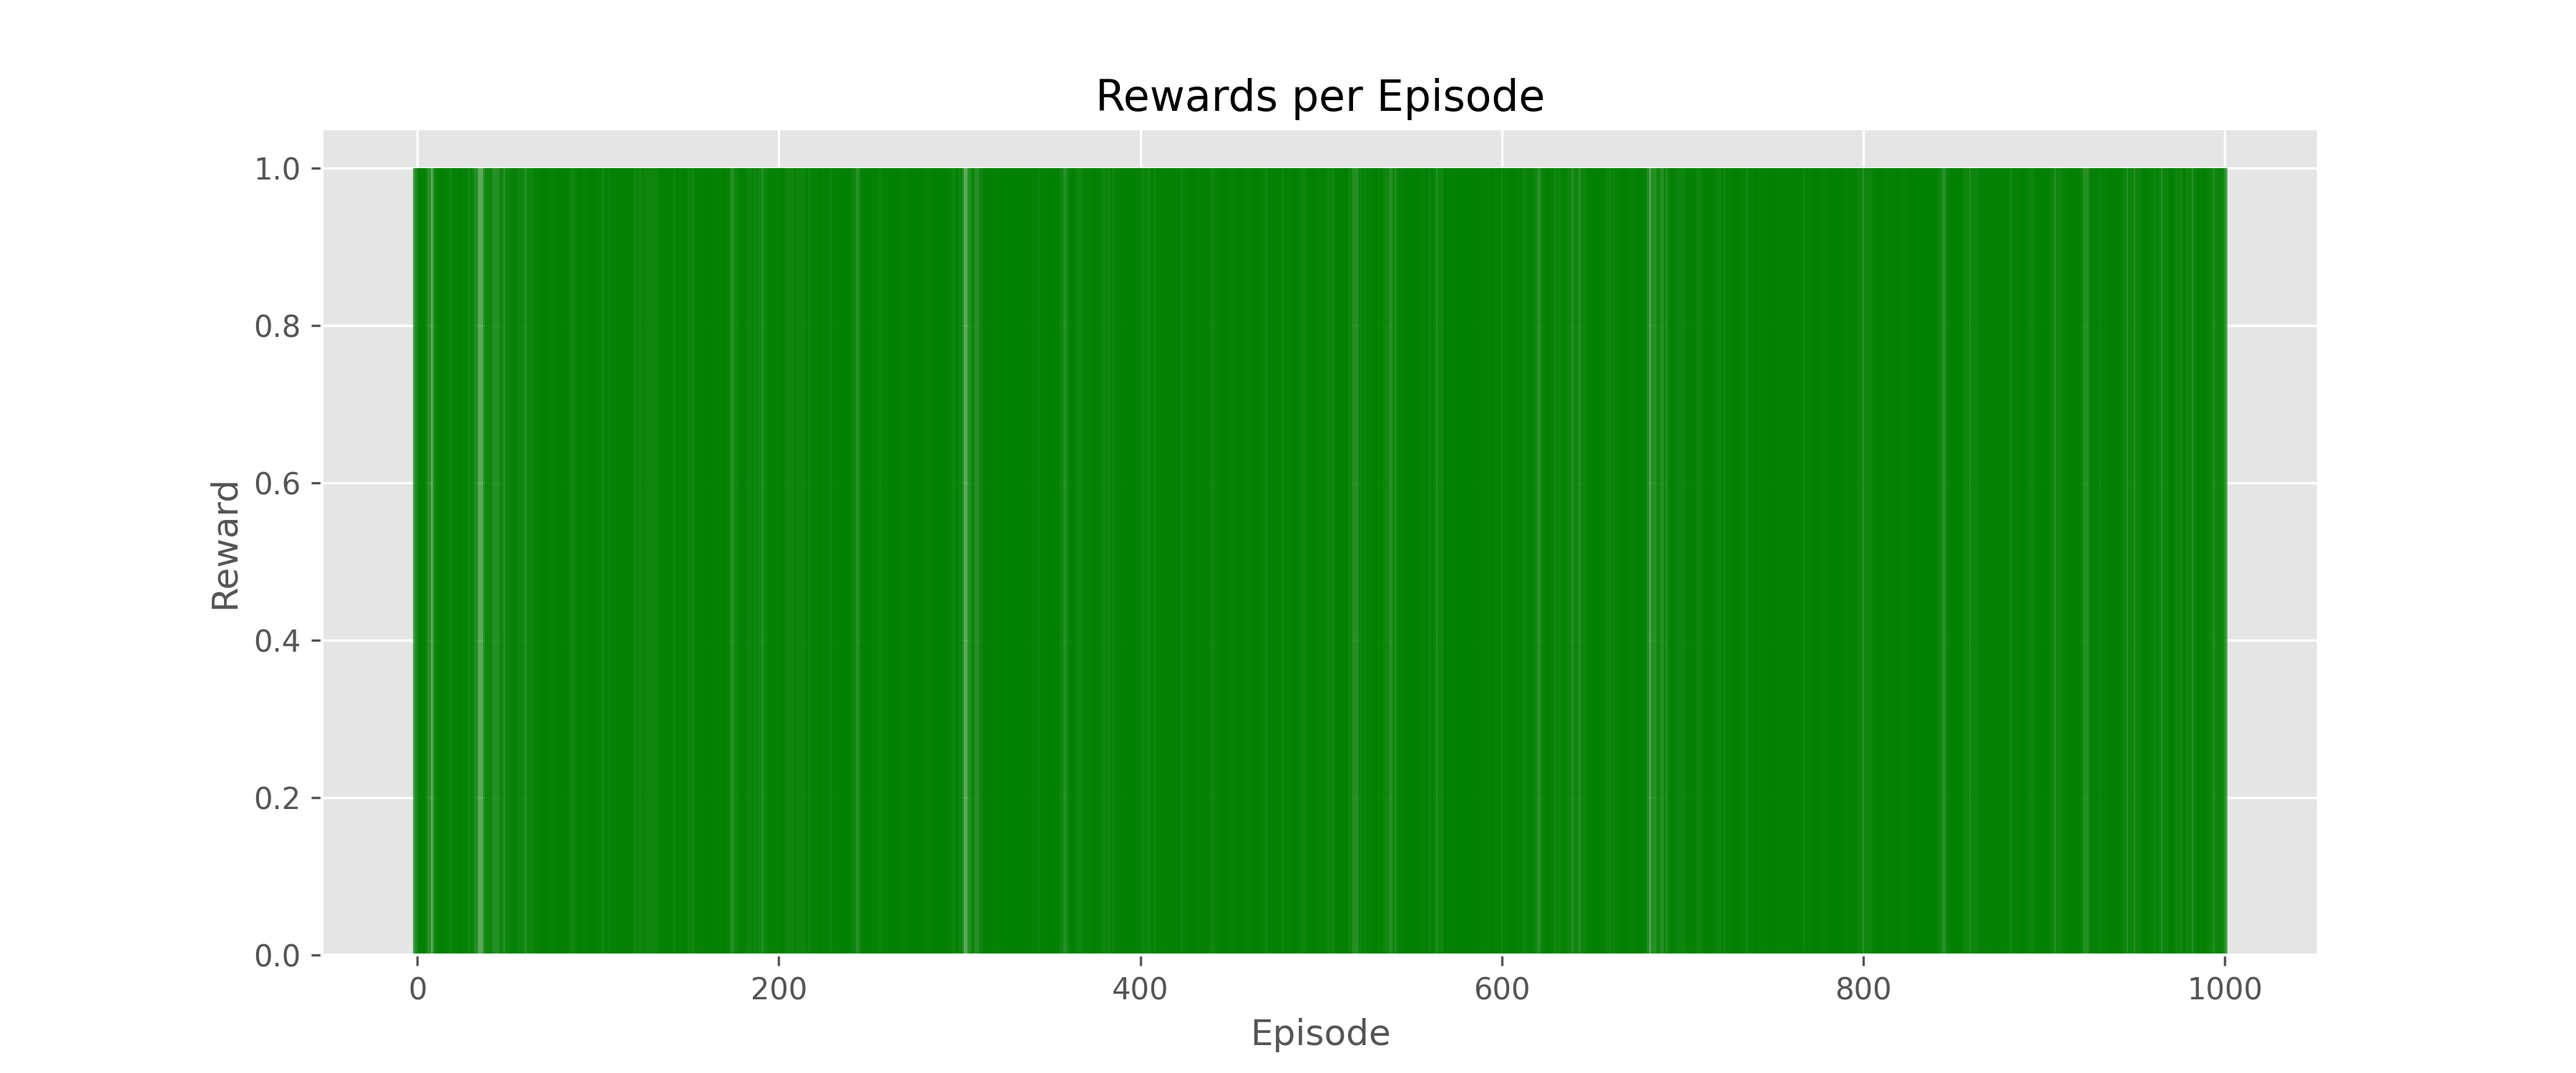
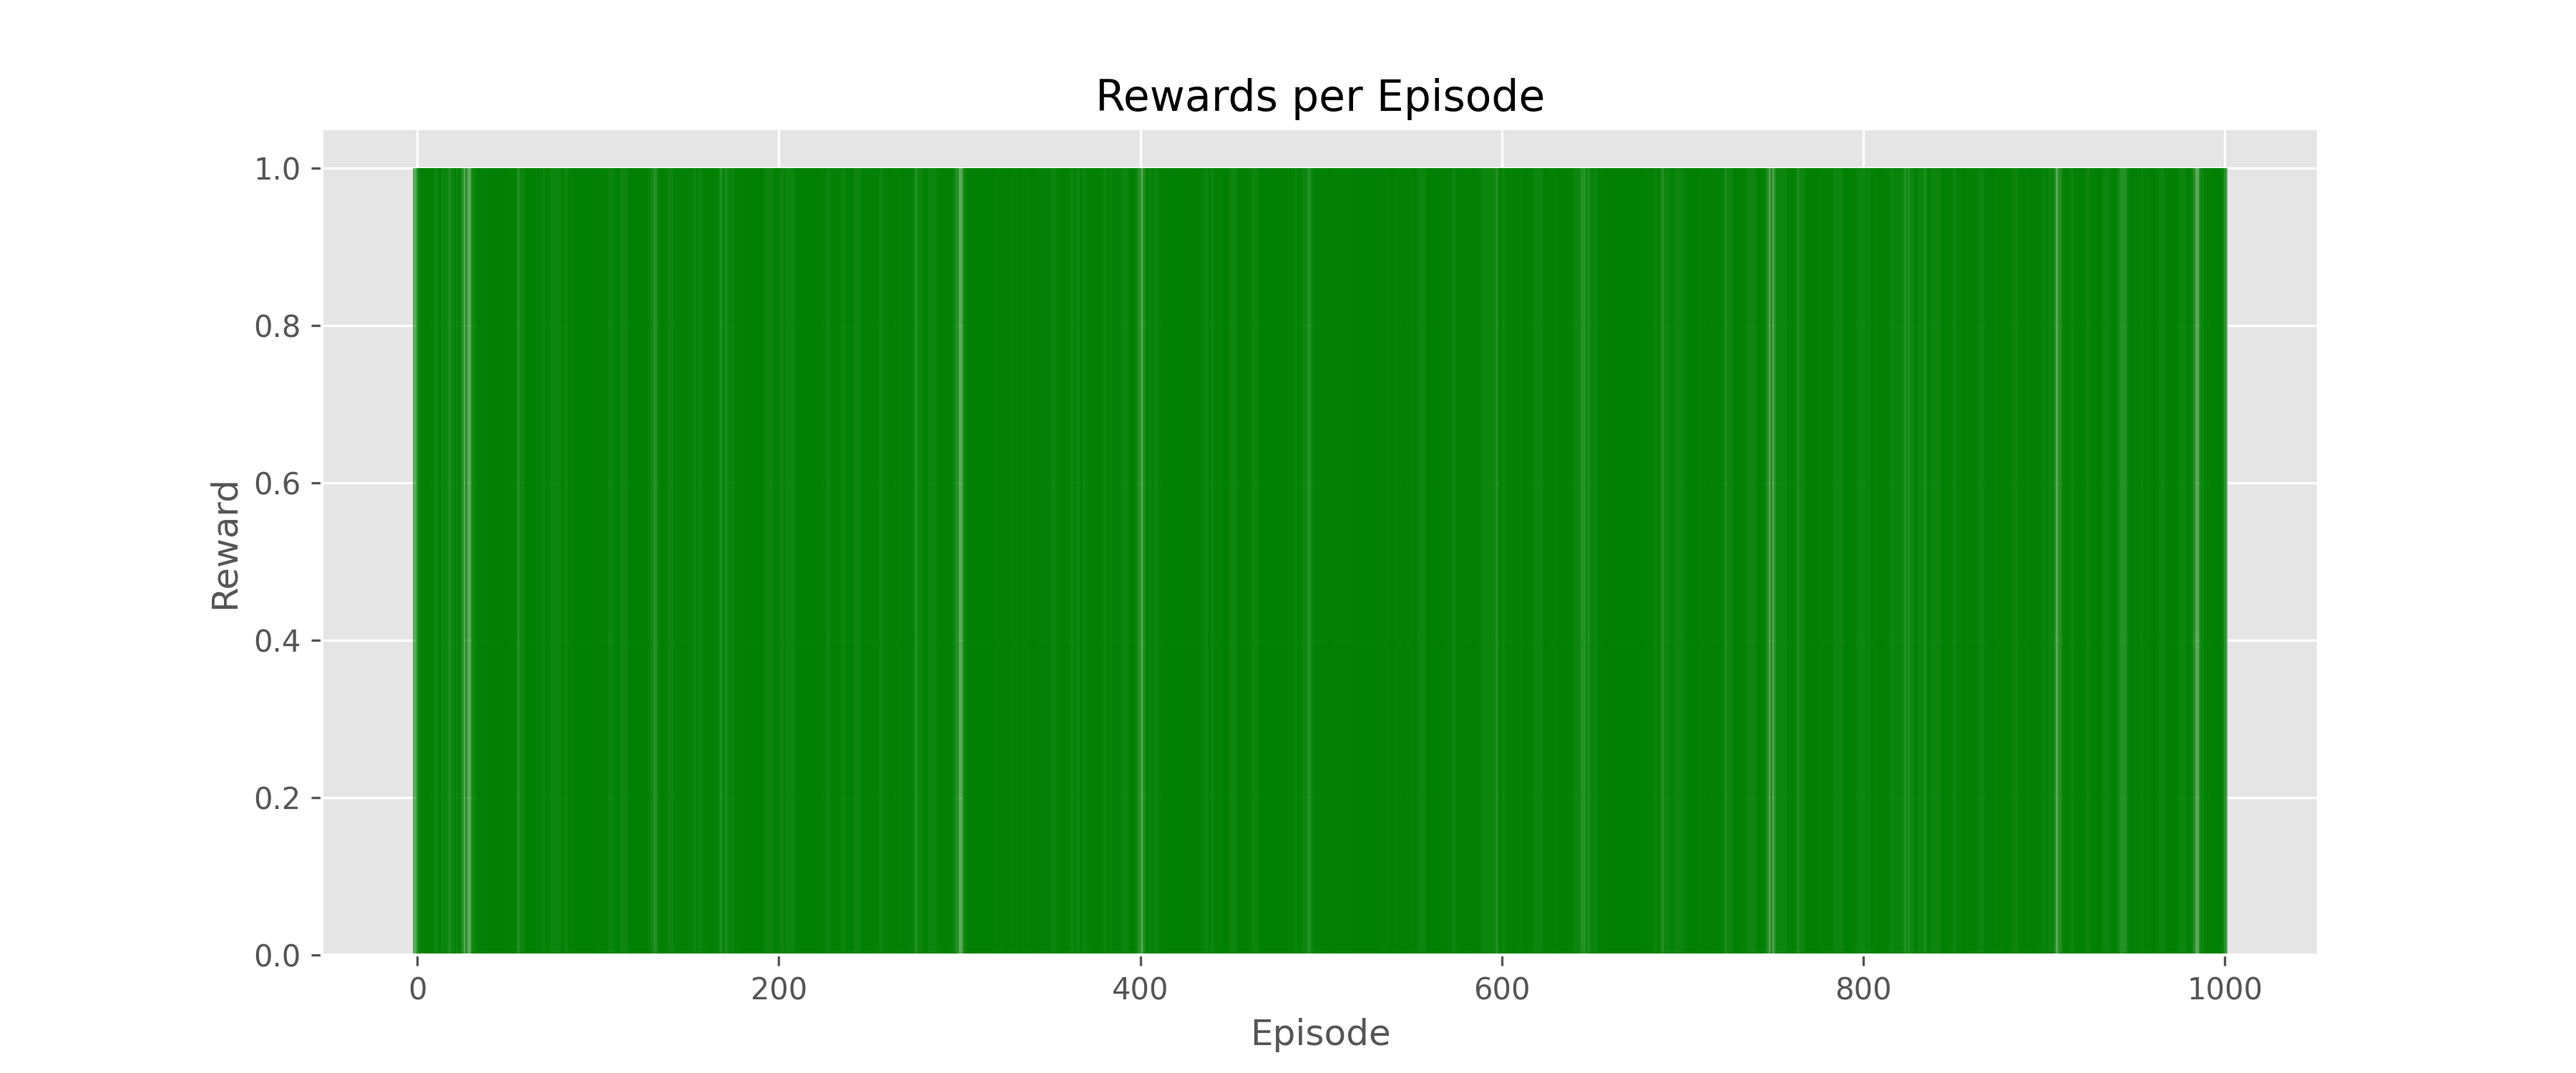
feat: Taxi environment

diff --git a/rl10_taxi.py b/rl10_taxi.py
@@ -1,0 +1,140 @@
+"""
+Solving Gymansium's Taxi-v3
+Using adaptative epsilon greedy strategy
+"""
+
+import os
+
+import gymnasium as gym
+import matplotlib.pyplot as plt
+import torch
+
+env = gym.make("Taxi-v3", is_rainy=False, fickle_passenger=False)
+OUTPUT_DIR = "./docs/rl10"
+os.makedirs(OUTPUT_DIR, exist_ok=True)
+plt.style.use("ggplot")
+
+
+NUM_EPISODES = 300
+steps_total = []
+rewards_total = []
+epsilon_total = []
+
+# Initialize Q-table
+number_of_states = env.observation_space.n
+number_of_actions = env.action_space.n
+Q = torch.zeros([number_of_states, number_of_actions])
+
+# Hyperparameters
+GAMMA = 0.9
+LEARNING_RATE = 1
+EPSILON_INITIAL = 0.9
+EPSILON_FINAL = 0.001
+EPSILON_DECAY = 0.999
+
+
+epsilon = EPSILON_INITIAL  # pylint: disable=invalid-name
+
+for i_episode in range(NUM_EPISODES):
+
+    state, _ = env.reset()
+    step = 0  # pylint: disable=invalid-name
+
+    while True:
+
+        step += 1
+
+        random_values = Q[state] + torch.rand(1, number_of_actions) / 1000
+
+        # Greedy epsilon strategy
+        random_for_egreedy = torch.rand(1).item()
+        if random_for_egreedy < epsilon:
+            action = env.action_space.sample()
+        else:
+            action = torch.argmax(random_values).item()
+
+        # Update epsilon if necessary
+        if epsilon > EPSILON_FINAL:
+            epsilon = EPSILON_DECAY * epsilon  # pylint: disable=invalid-name
+
+        new_state, reward, terminated, truncated, info = env.step(action)
+
+        # Q-value (LEARNING_RATE = 1 because deterministic)
+        Q[state, action] = (1 - LEARNING_RATE) * Q[state, action] + LEARNING_RATE * (
+            reward + GAMMA * torch.max(Q[new_state])
+        )
+
+        env.render()
+
+        state = new_state
+
+        if terminated or truncated:
+            steps_total.append(step)
+            rewards_total.append(reward)
+            epsilon_total.append(epsilon)
+            break
+
+
+# Print statistics
+print(f"\nTraning completed after {NUM_EPISODES} episodes.")
+print(
+    "Hyperparameters: \n"
+    f"\t Discount factor: {GAMMA}\n"
+    f"\t Learning rate: {LEARNING_RATE} (becuase deterministic)\n"
+    "\t Epsilon for exploration:\n"
+    f"\t \t Initial {EPSILON_INITIAL}\n"
+    f"\t \t Final {EPSILON_FINAL}\n"
+    f"\t \t Decay multipliyer {EPSILON_DECAY}\n"
+)
+
+
+N_EPISODES_FOR_STATS = 100
+successful_episodes = sum(1 for r in rewards_total if r == 20)
+successful_last_N = sum(1 for r in rewards_total[-N_EPISODES_FOR_STATS:] if r == 20)
+
+print(
+    f"Percent of episodes finished successfully: {100*successful_episodes / NUM_EPISODES}%"
+)
+print(
+    f"Percent of episodes finished successfully (last {N_EPISODES_FOR_STATS} episodes): "
+    f"{100*successful_last_N / N_EPISODES_FOR_STATS}%"
+)
+
+print(f"Average number of steps: {sum(steps_total) / NUM_EPISODES:.2f}")
+print(
+    f"Average number of steps (last {N_EPISODES_FOR_STATS} episodes): "
+    f"{sum(steps_total[-N_EPISODES_FOR_STATS:]) / N_EPISODES_FOR_STATS:.2f}"
+)
+
+
+plt.figure(figsize=(12, 5))
+plt.title("Rewards per Episode")
+plt.bar(
+    torch.arange(len(rewards_total)), rewards_total, alpha=0.6, color="green", width=5
+)
+plt.xlabel("Episode")
+plt.ylabel("Reward")
+reward_plot_path = os.path.join(OUTPUT_DIR, "rl10_rewards_per_episode.png")
+plt.savefig(reward_plot_path, dpi=300)
+plt.close()
+
+plt.figure(figsize=(12, 5))
+plt.title("Steps / Episode length")
+plt.bar(torch.arange(len(steps_total)), steps_total, alpha=0.6, color="red", width=5)
+plt.xlabel("Episode")
+plt.ylabel("Steps")
+steps_plot_path = os.path.join(OUTPUT_DIR, "rl10_steps_per_episode.png")
+plt.savefig(steps_plot_path, dpi=300)
+plt.close()
+
+
+plt.figure(figsize=(12, 5))
+plt.title("Epsilon greedy")
+plt.bar(
+    torch.arange(len(epsilon_total)), epsilon_total, alpha=0.6, color="blue", width=5
+)
+plt.xlabel("Episode")
+plt.ylabel("Epsilon")
+steps_plot_path = os.path.join(OUTPUT_DIR, "rl10_epsilon_per_episode_with_decay.png")
+plt.savefig(steps_plot_path, dpi=300)
+plt.close()

diff --git a/README.md b/README.md
@@ -147,9 +147,10 @@ The ɛ greedy is varying through the episodes so that the exploration is favoure
     </figure>
 
 ### rl09_fl_value_iteration
-Instead of Q-values, the V-values are used.
+As an alternative, instead of Q-values, the V-values can be used.
 
 The V-value at a state *s* for a given policy $\pi$ is:
+
 $$
 V(s) := \sum_{s'} P_{\pi(s)}(s, s') (R_{\pi(s)}(s, s') + \gamma V(s'))
 $$
@@ -161,7 +162,7 @@ It calculates the expected return from state *s* by summing the rewards and disc
 The optimal policy $\pi(s)$ is given by:
 
 $$
-\pi(s) := \arg \max_{a} \left\{ \sum_{s'} P_{a}(s, s') [R_{a}(s, s') + \gamma V(s')] \right\}
+\pi(s) := \arg \max_{a} [ \sum_{s'} P_{a}(s, s') [R_{a}(s, s') + \gamma V(s')] ]
 $$
 
 It states that the best action to take in state *s* is the one that maximizes the expected value of the resulting state, essentially choosing the action that leads to the highest potential reward.
@@ -169,5 +170,39 @@ It states that the best action to take in state *s* is the one that maximizes th
 The value iteration algorithm is an iterative method to find the optimal value function by repeatedly updating the value of each  *V(s)* to equal the maximum expected value achievable from that state. This process continues until the values converge to the optimal values.
 
 $$
-V_{i+1}(s) := \max_{a} \left\{ \sum_{s'} P_{a}(s, s') (R_{a}(s, s') + \gamma V_i(s')) \right\}
+V_{i+1}(s) := \max_{a} [ \sum_{s'} P_{a}(s, s') (R_{a}(s, s') + \gamma V_i(s')) ]
 $$
+
+Since a (optimal) policy is found with this method, there is no learning after taking steps.
+    <figure style="margin: 0;">
+        <img src="https://github.com/MartinezAgullo/rl-exercises-gymnasium/blob/main/docs/rl09/rl09_steps_per_episode.png" alt="Steps per episode before learning" style="width: 100%; max-width: 400px; display: block;">
+        <figcaption style="text-align: center; font-size: 0.9em; color: #555;">
+            Figure 6: Steps per episode after finding the optimal policy with value interation.
+        </figcaption>
+    </figure>
+
+### rl10_taxi.py
+Apply the adaptative ɛ greedy strategy in the [Taxi](https://gymnasium.farama.org/environments/toy_text/taxi/) environment. In this scenario, negative rewards are possible:
+    <figure style="margin: 0;">
+        <img src="https://github.com/MartinezAgullo/rl-exercises-gymnasium/blob/main/docs/rl10/rl10_rewards_per_episode.png" alt="Steps per episode before learning" style="width: 100%; max-width: 400px; display: block;">
+        <figcaption style="text-align: center; font-size: 0.9em; color: #555;">
+            Figure 7: Reward per episode.
+        </figcaption>
+    </figure>
+
+
+<!-- ```console
+Traning completed after 300 episodes.
+Hyperparameters:
+         Discount factor: 0.9
+         Learning rate: 1 (becuase deterministic)
+         Epsilon for exploration:
+                 Initial 0.9
+                 Final 0.001
+                 Decay multipliyer 0.999
+
+Percent of episodes finished successfully: 87.66%
+Percent of episodes finished successfully (last 100 episodes): 100.0%
+Average number of steps: 63.25
+Average number of steps (last 100 episodes): 19.71
+``` -->
